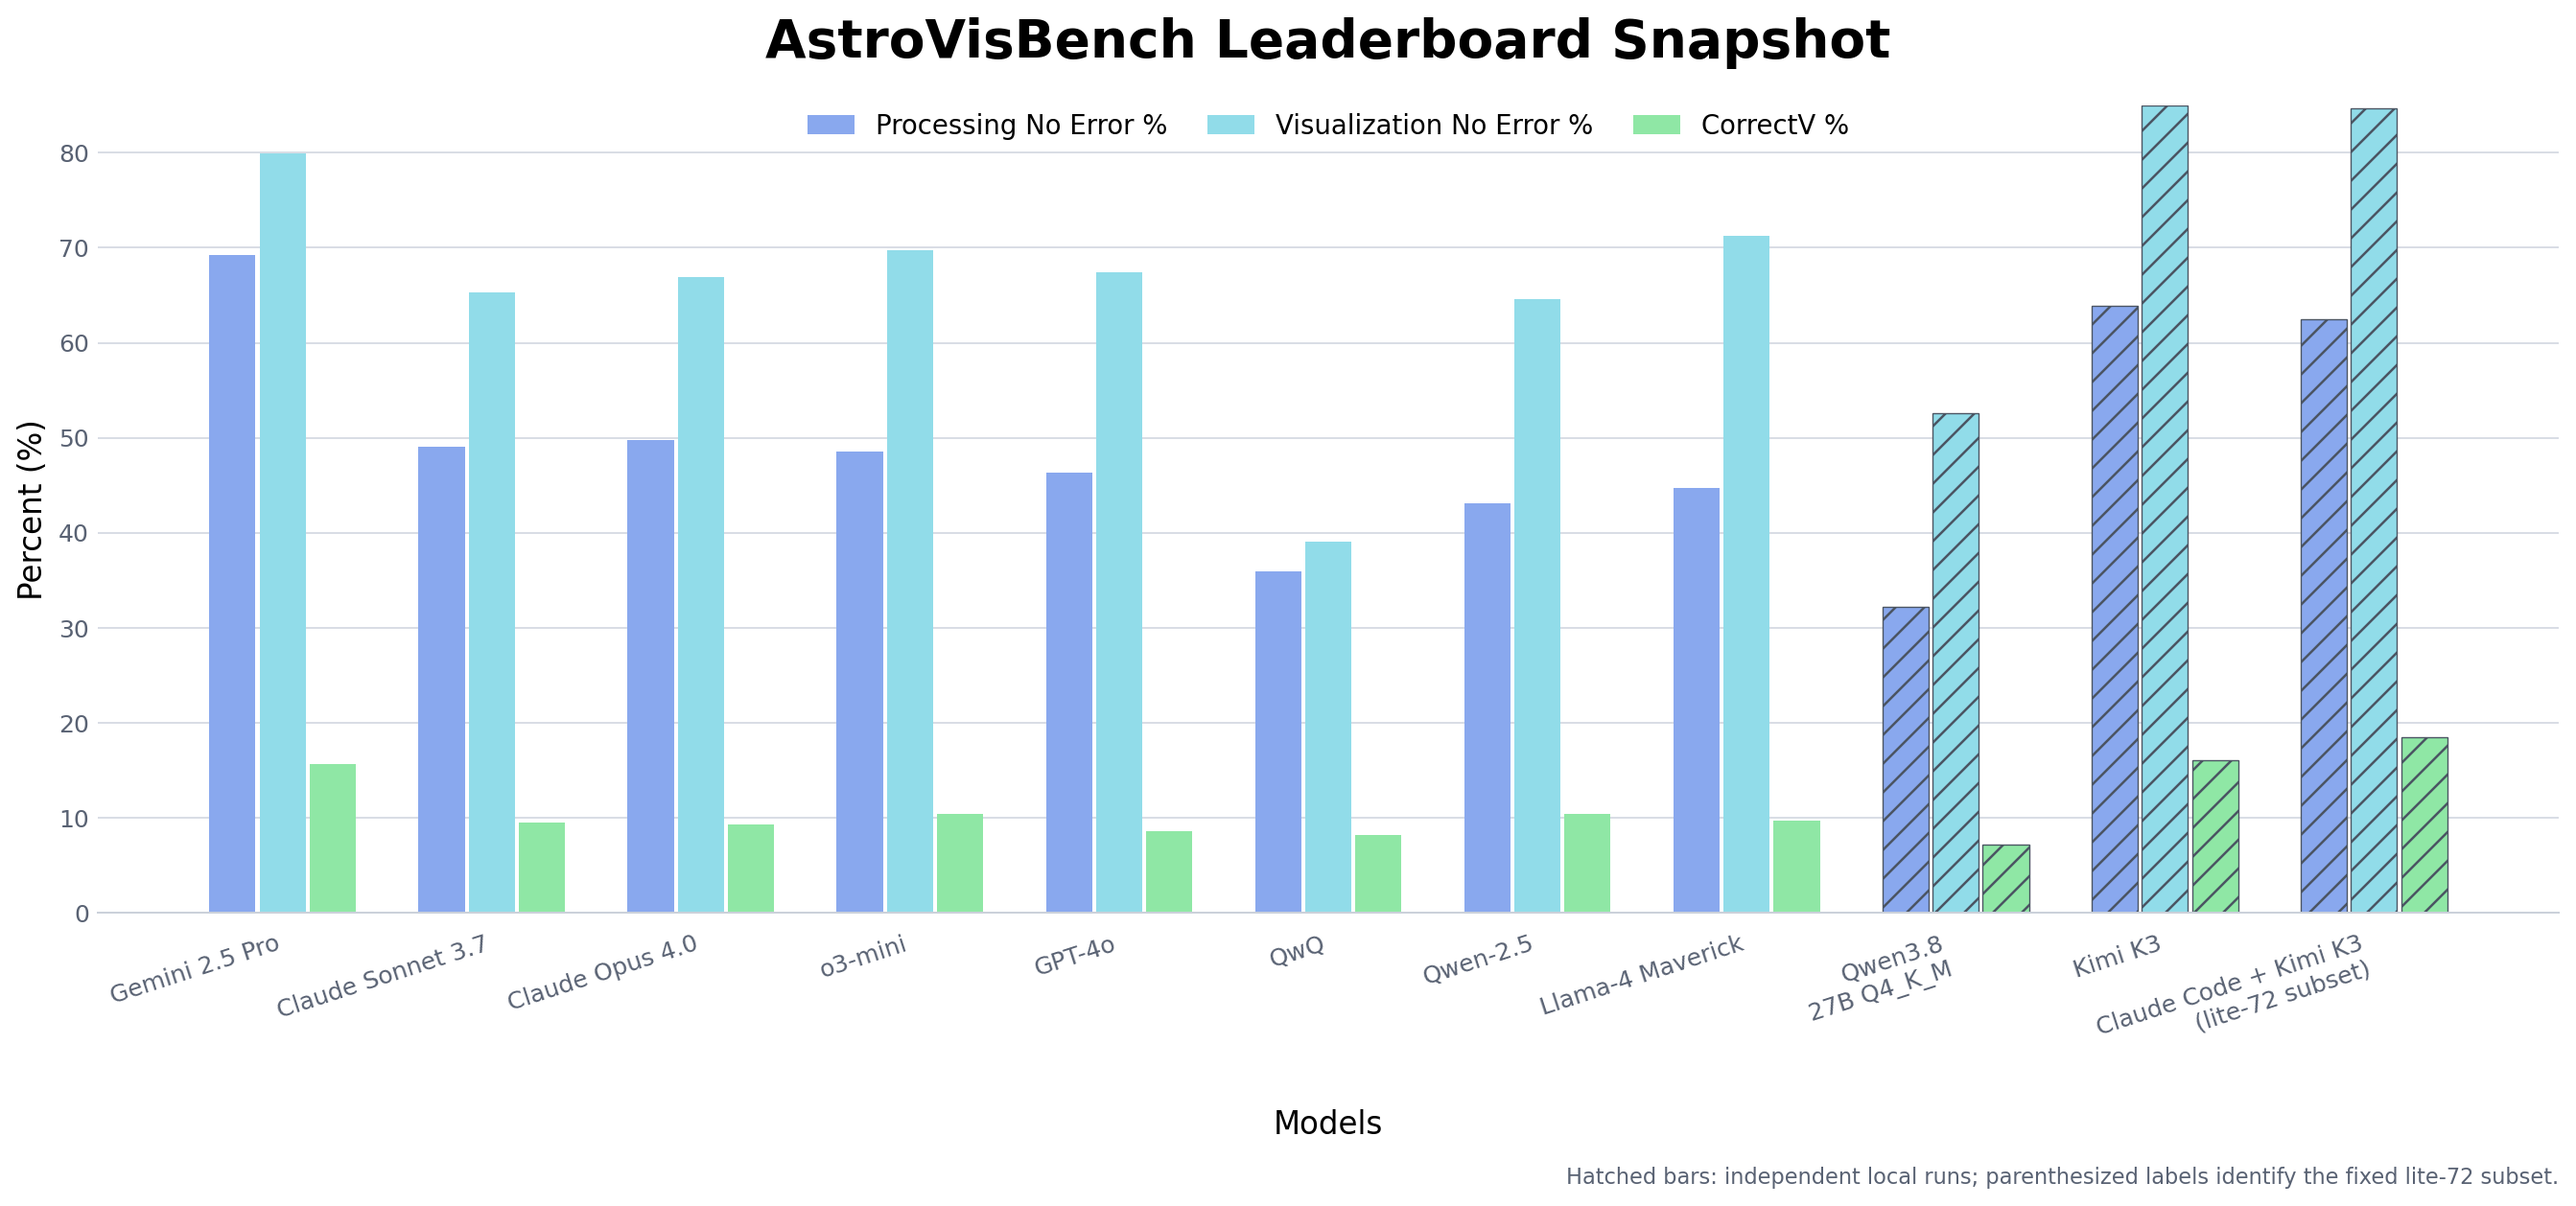
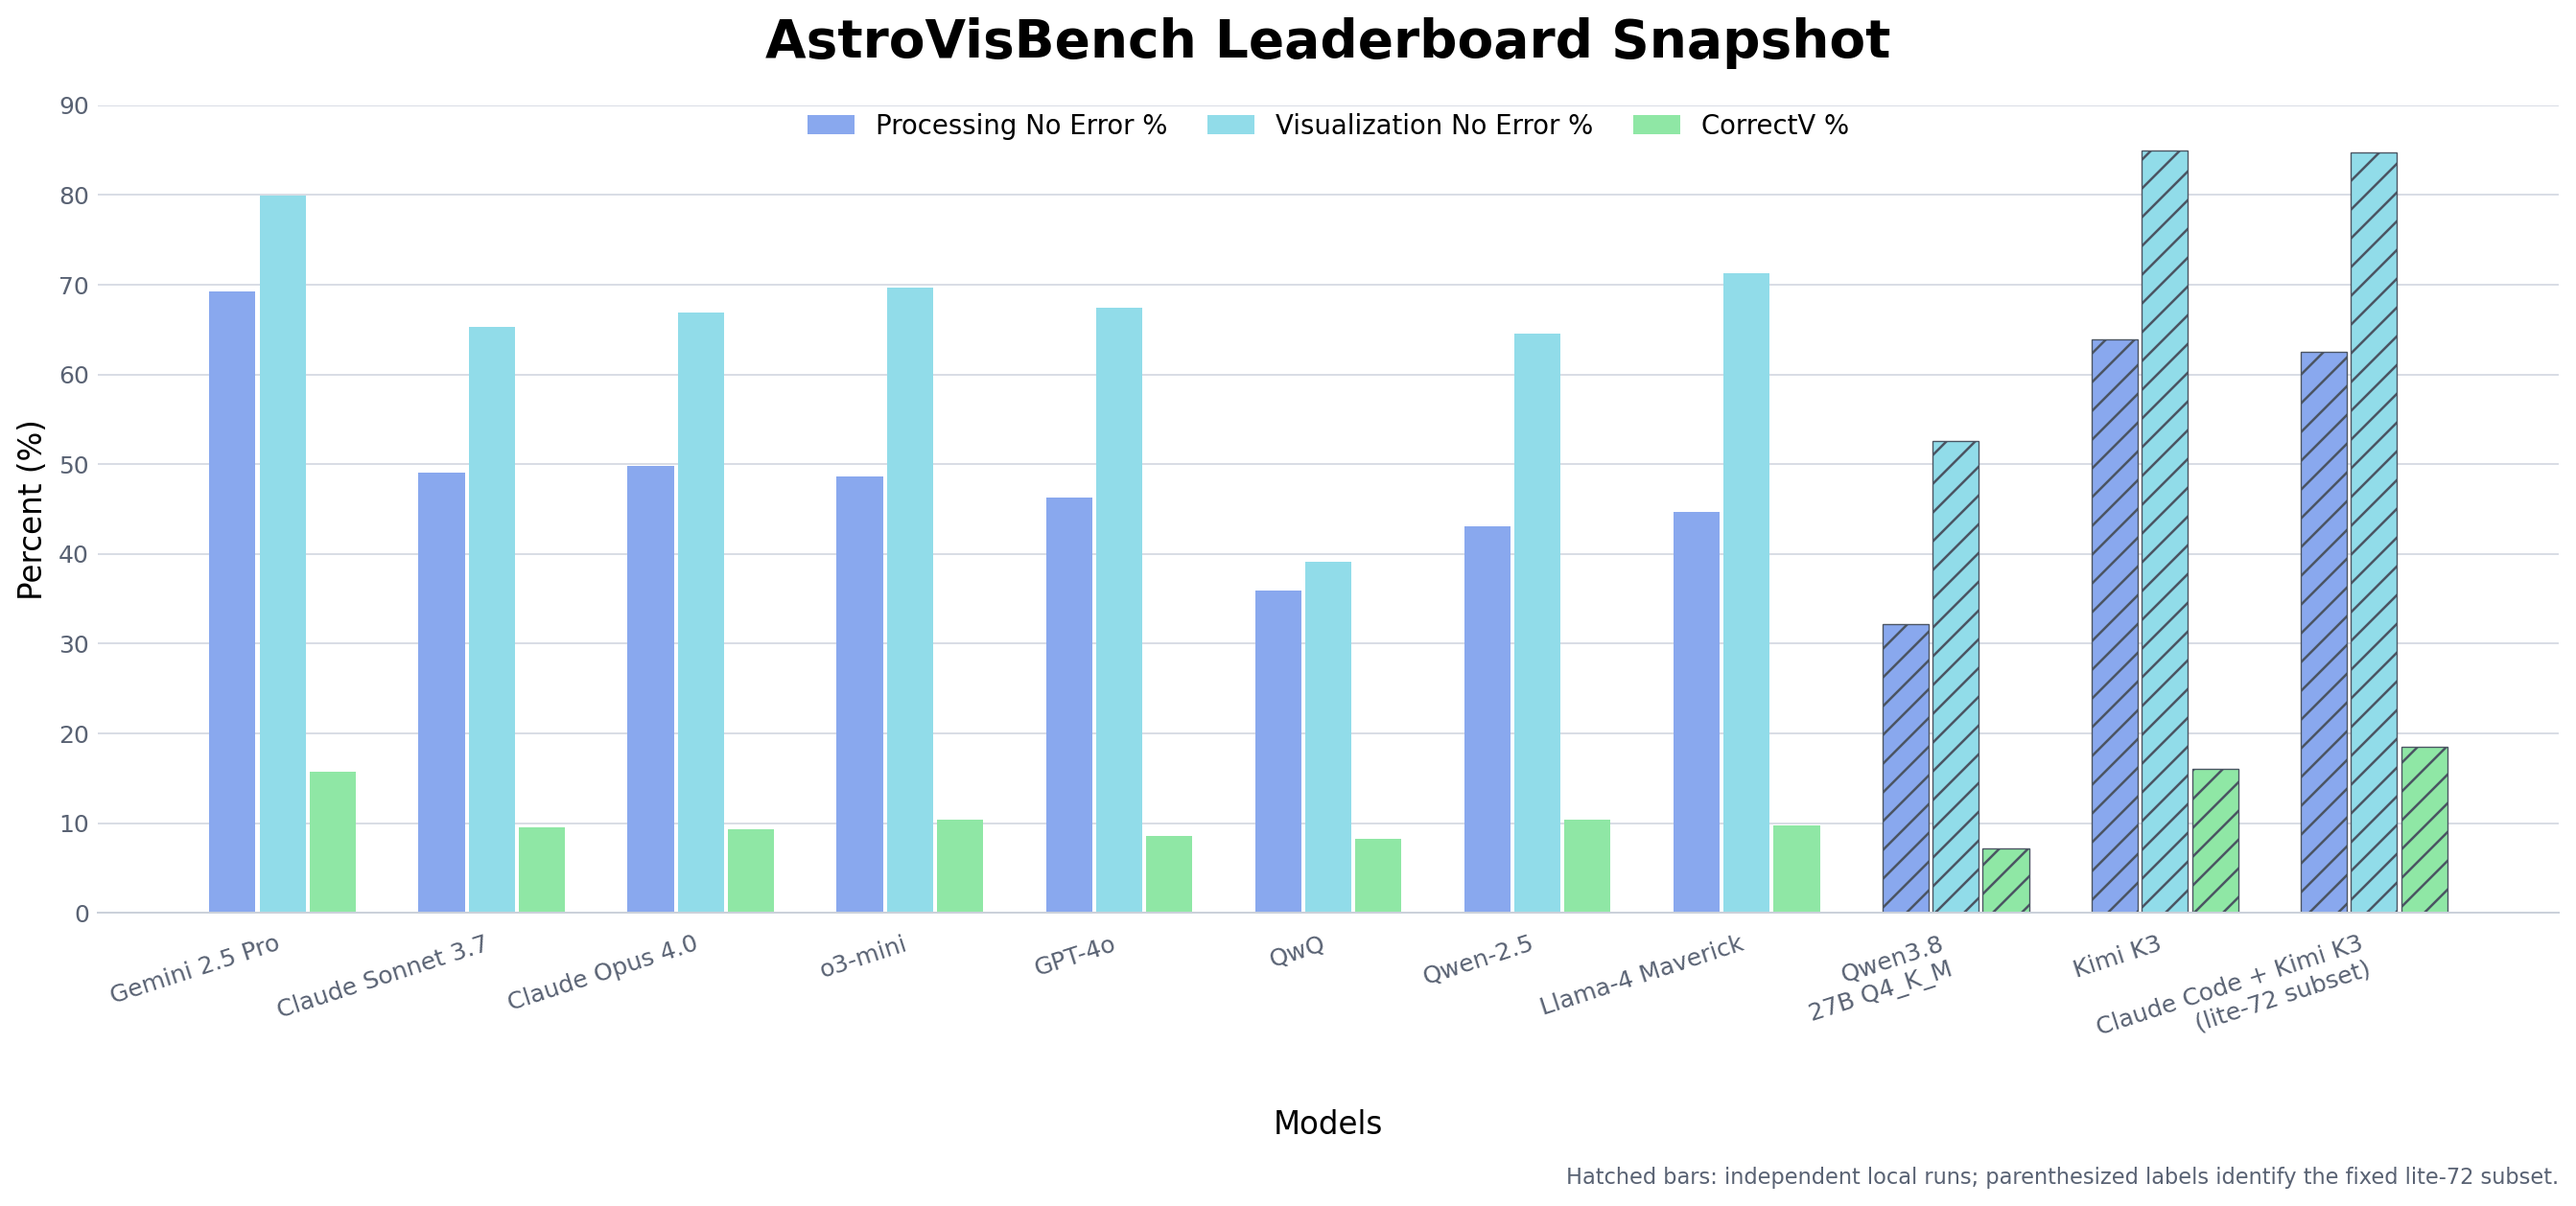
Extend leaderboard y-axis to 90 percent

diff --git a/scripts/build_leaderboard_assets.py b/scripts/build_leaderboard_assets.py
@@ -52,8 +52,8 @@ def main() -> None:
     ax.set_title("AstroVisBench Leaderboard Snapshot", fontsize=22, fontweight="bold", pad=20)
     ax.set_ylabel("Percent (%)", fontsize=13)
     ax.set_xlabel("Models", fontsize=13, labelpad=18)
-    ax.set_ylim(0, 85)
-    ax.set_yticks(np.arange(0, 81, 10))
+    ax.set_ylim(0, 90)
+    ax.set_yticks(np.arange(0, 91, 10))
     ax.grid(axis="y", color="#d9dde5", linewidth=0.8)
     ax.set_axisbelow(True)
     ax.spines[["top", "right", "left"]].set_visible(False)
